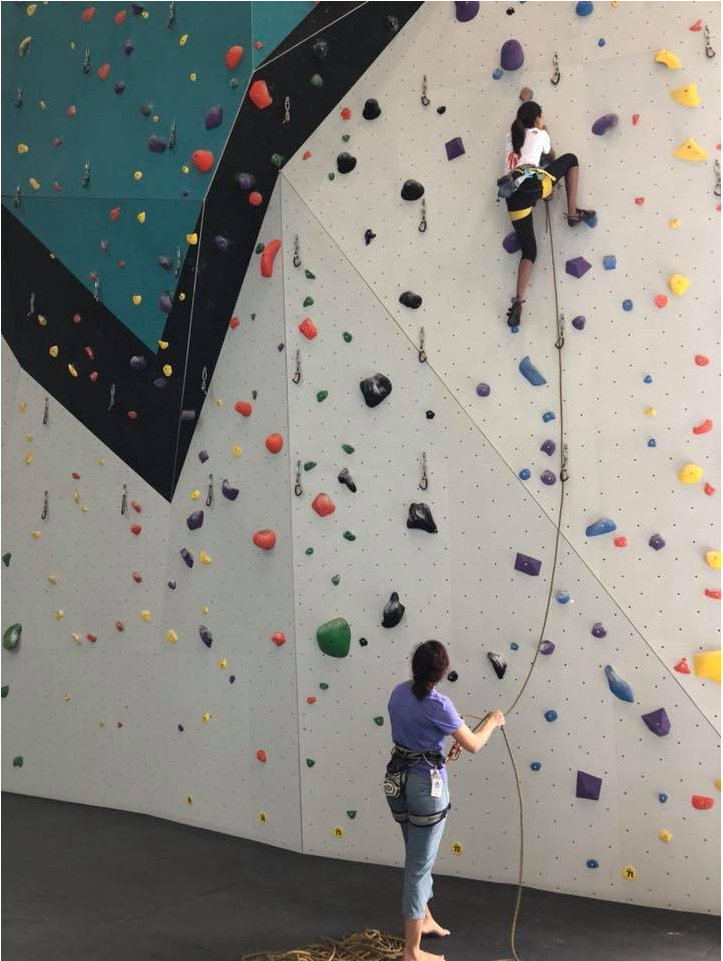
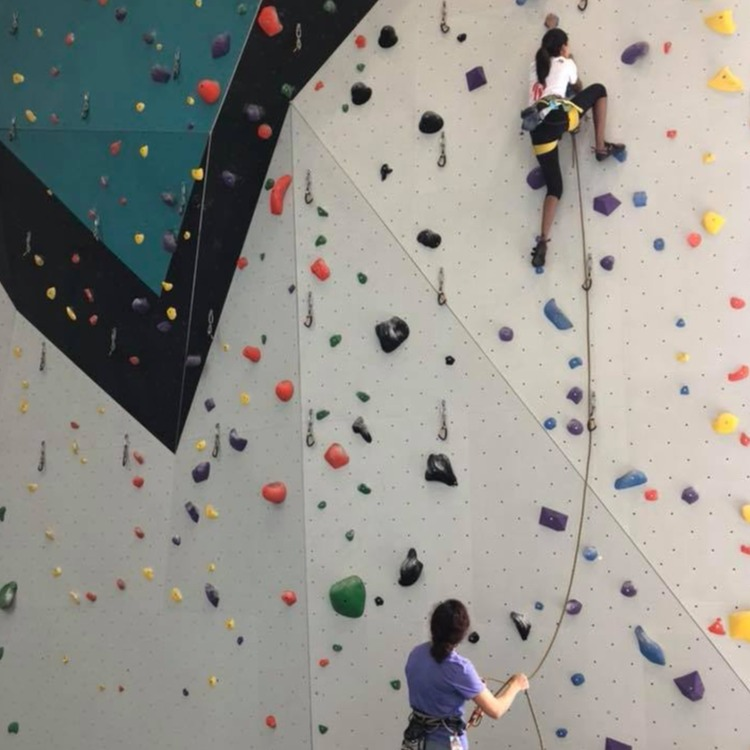
Add and style section for images

diff --git a/index.html b/index.html
@@ -38,22 +38,27 @@
             <h2>Lead Climbing</h2>
             <br>
             <p>Lead climbing is a climbing style in which one climber has to take the lead while the other climbers follow. The lead climber wears a harness attached to a climbing rope, which in turn is connected to the other climbers below the lead climber. One of the climbers below the lead climber acts as a belayer. The belayer gives out rope while the lead climber ascends and also stops the rope when the lead climber falls or wants to rest.</p>
-            <br>
-            <img src="assets/images/lead-climbing.jpeg" alt="Lead climbers on an indoor climbing wall" height="100%" width="100%">
         </div>
         <div id="right-section">
             <h2>Bouldering</h2>
             <br>
             <p>Bouldering is a form of free climbing that is performed on small rock formations or artificial rock walls without the use of ropes or harnesses. Bouldering problems (the sequence of moves that a climber performs to complete the climb) are usually less than six metres (20 ft) tall. Bouldering competitions take place in both indoor and outdoor settings.</p>
-            <br>
-            <img src="assets/images/bouldering.jpeg" alt="Two climbers on an indoor climbing wall" height="100%" width="100%">
         </div>
         <div id="center-section">
             <h2>Speed Climbing</h2>
             <br>
             <p>Speed climbing is a climbing discipline in which speed is the ultimate goal. It can be performed on rocks, walls and poles and is only recommended for highly skilled and experienced climbers.
                 Competition speed climbing, which takes place on an artificial standardized climbing wall, is the main form of speed climbing. However, there are other variations of speed climbing that take place outdoors.</p>
-            <br>
+        </div>
+    </section>
+    <section>
+        <div id="left-img">
+            <img src="assets/images/lead-climbing.jpeg" alt="Lead climbers on an indoor climbing wall" height="100%" width="100%">
+        </div>
+        <div id="right-img">
+            <img src="assets/images/bouldering.jpeg" alt="Two climbers on an indoor climbing wall" height="100%" width="100%">
+        </div>
+        <div id="center-img">
             <img src="assets/images/speed-climbing.jpeg" alt="Two speed-climbers on an indoor climbing wall" height="100%" width="100%">
         </div>
     </section>

diff --git a/assets/css/style.css b/assets/css/style.css
@@ -133,6 +133,26 @@ br {
     text-align: center;
 }
 
+/* Images */
+
+#left-img {
+    padding-top: 15px;
+    width: 30%;
+    float: left;
+}
+
+#right-img {
+    padding-top: 15px;
+    width: 30%;
+    float: right;
+}
+
+#center-img {
+    padding-top: 15px;
+    width: 30%;
+    margin: 0 auto;
+}
+
 /* Footer */
 
 footer {
